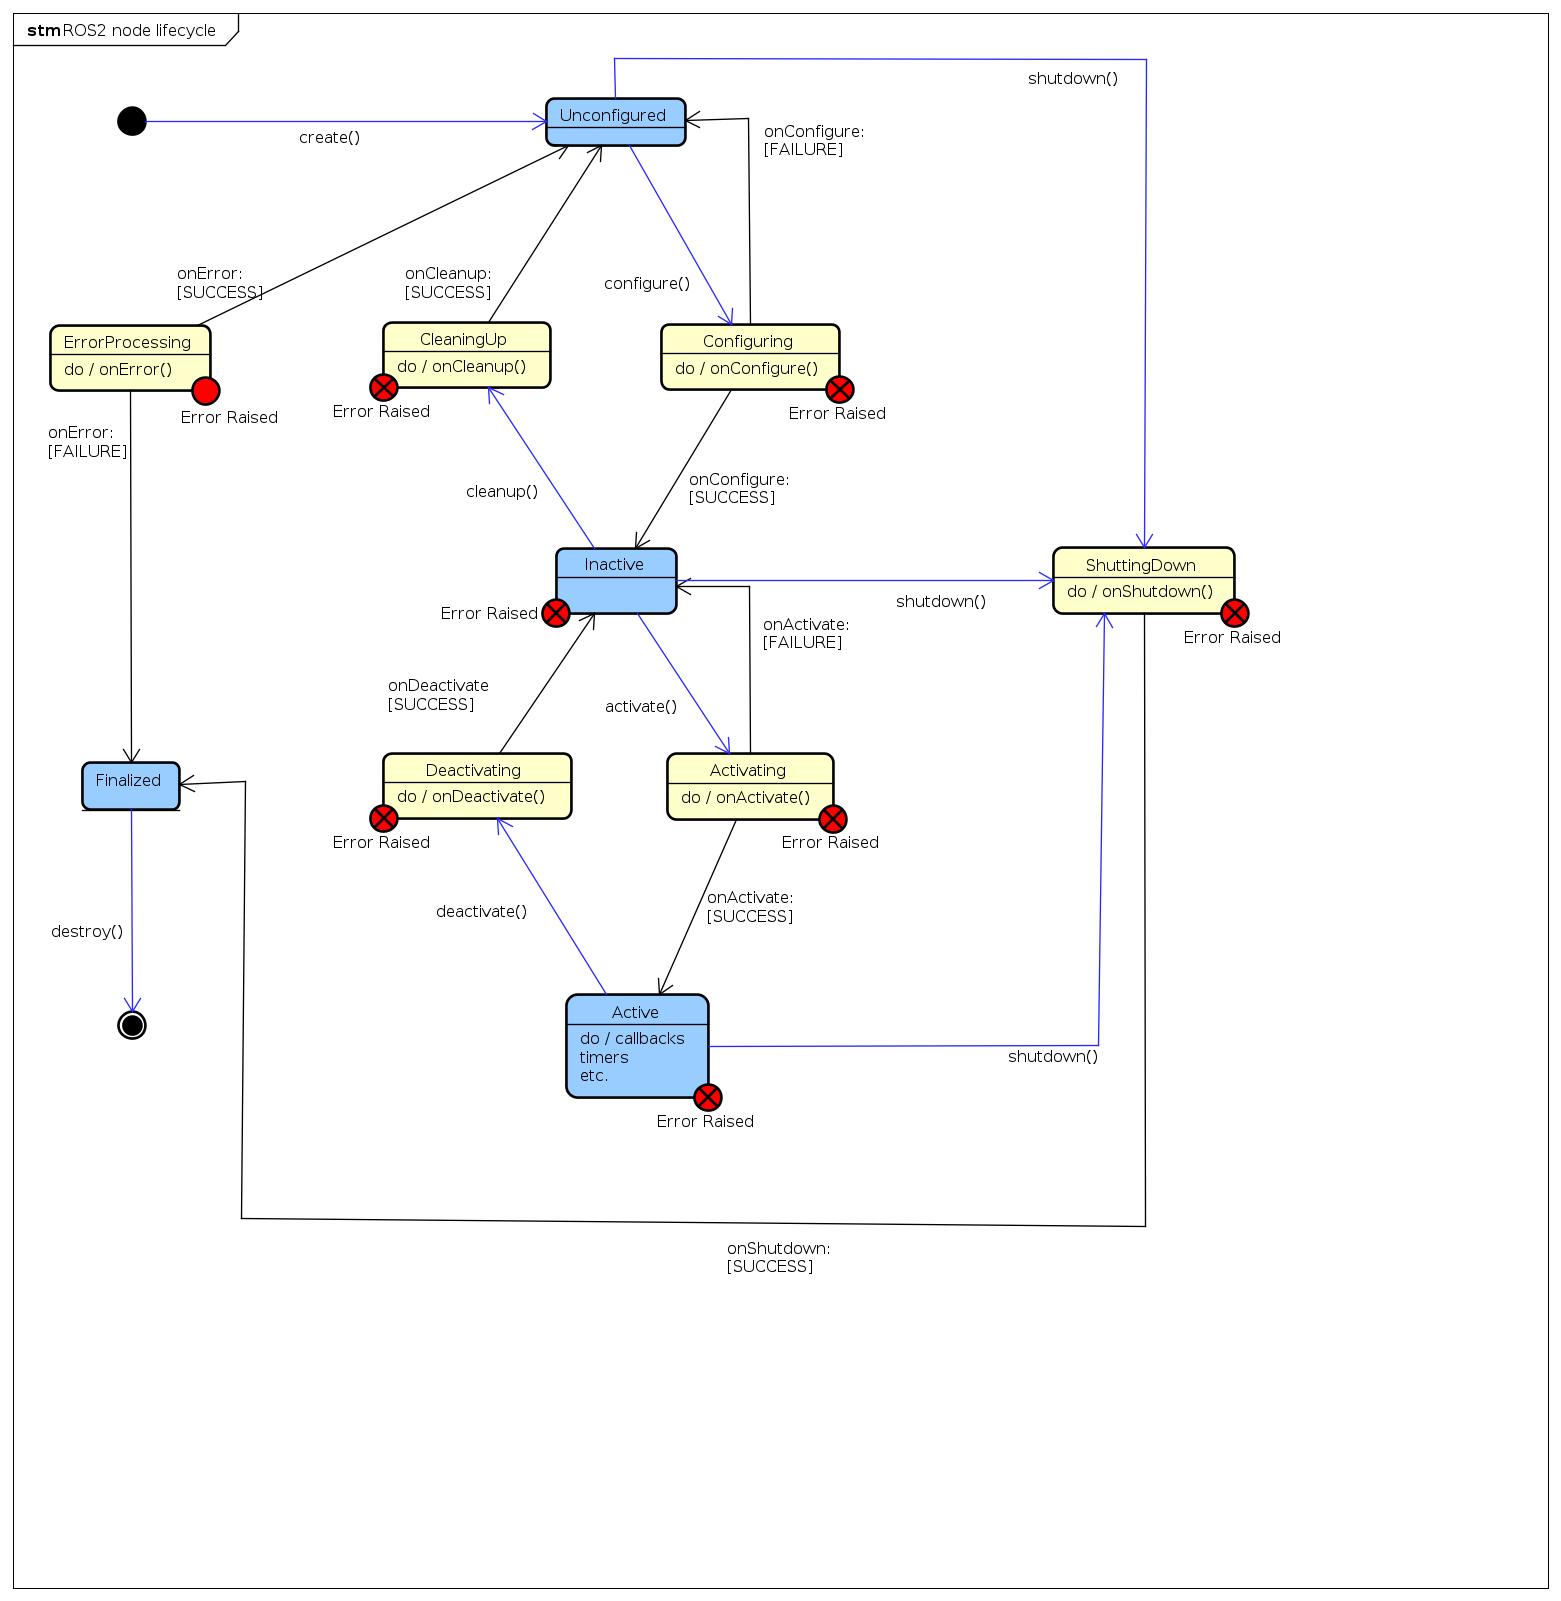
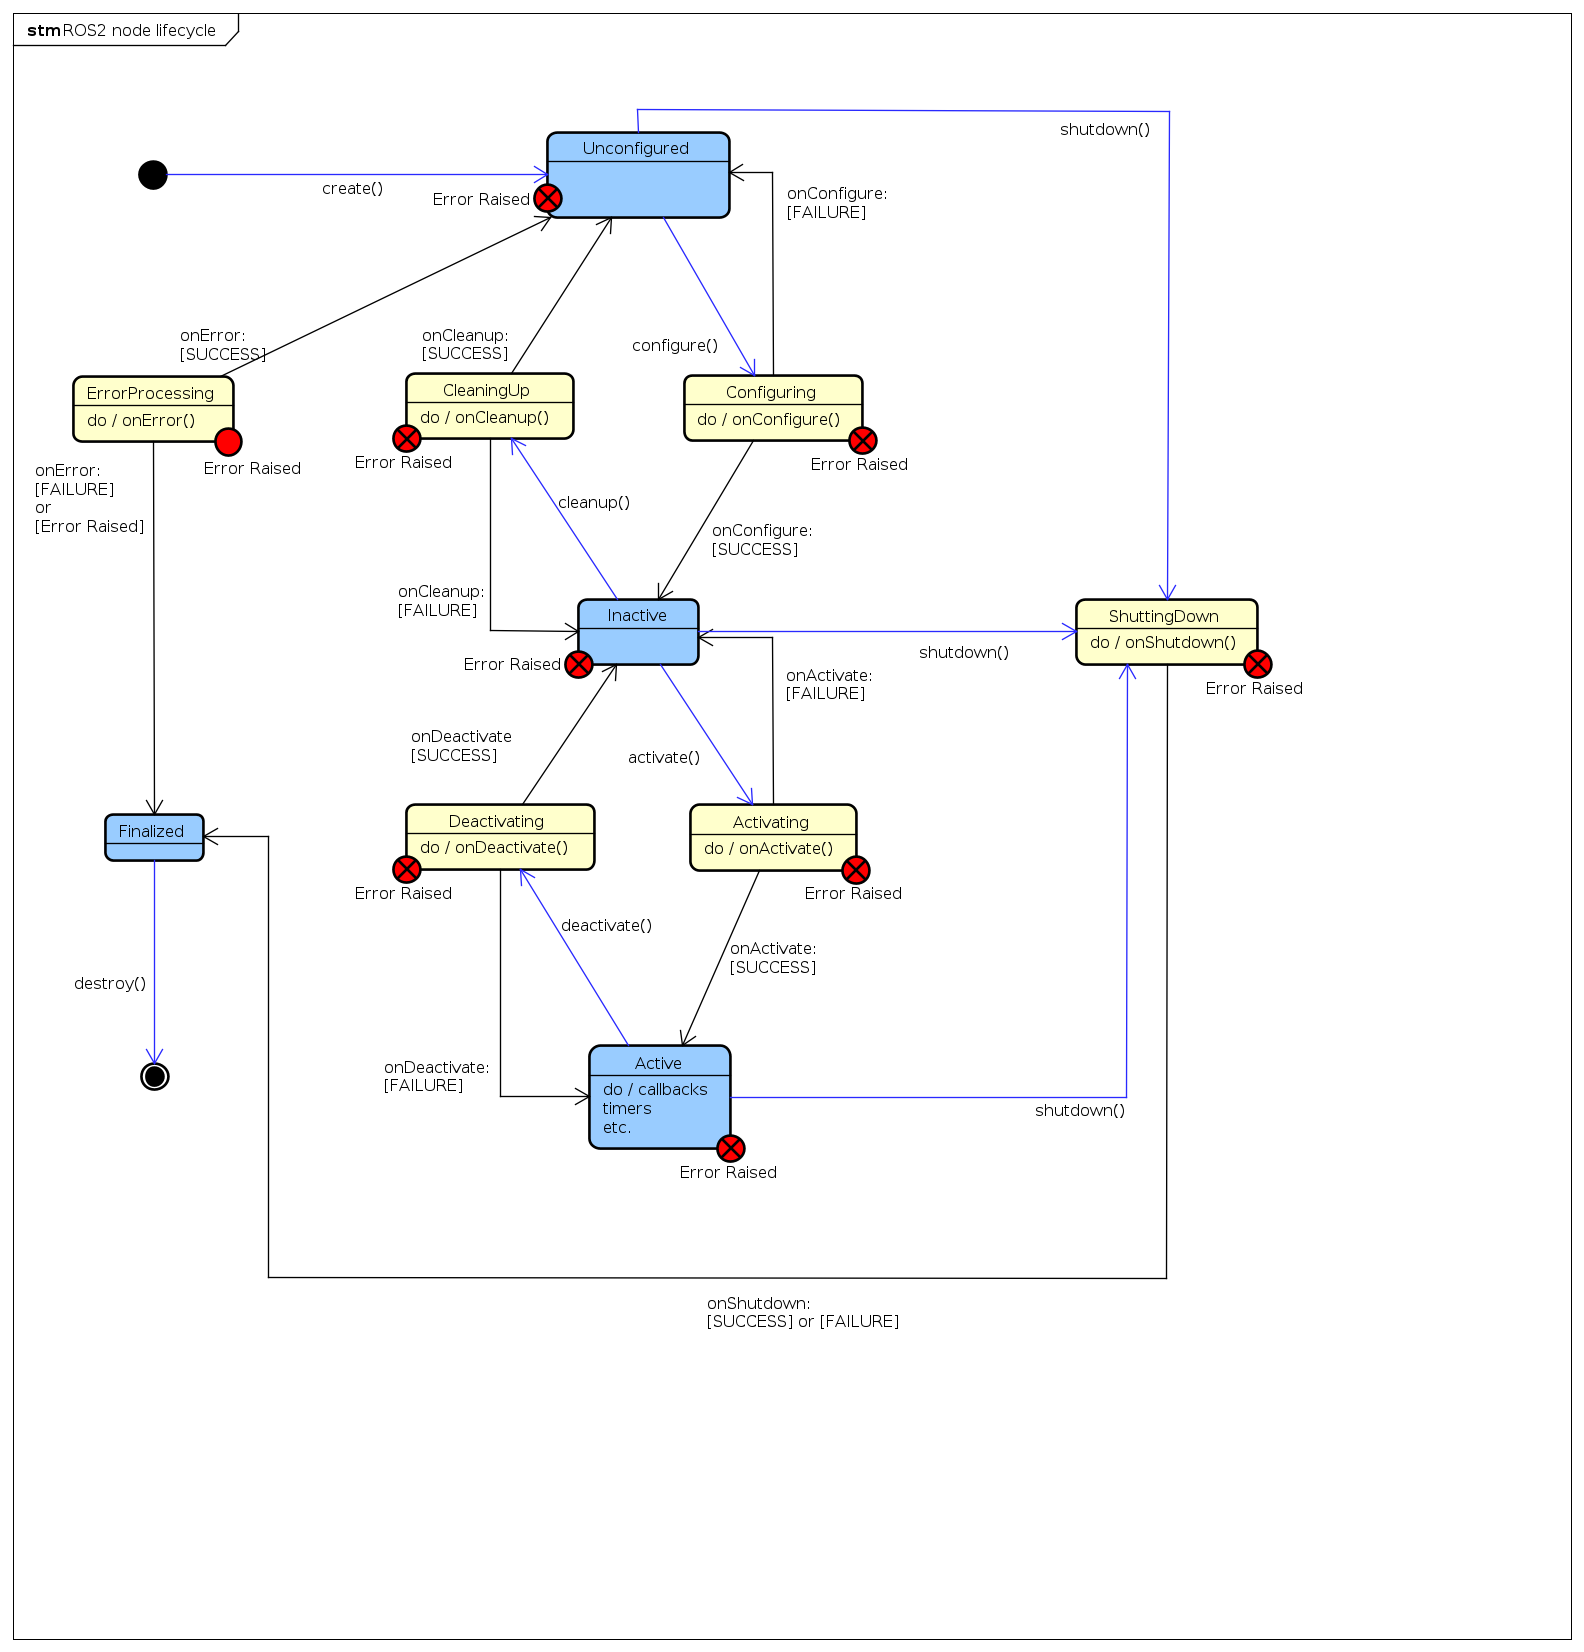
* update lifecycle asta and png to show unconfigured->errorProcessing transition and failure transitions currently in the implementation * update article to explicitly mention the added transitions Signed-off-by: thebyohazard <patrick@jlpengineering.com>

diff --git a/articles/node_lifecycle.md b/articles/node_lifecycle.md
@@ -71,6 +71,8 @@ This is the life cycle state the node is in immediately after being instantiated
 This is also the state in which a node may be retuned to after an error has happened.
 In this state there is expected to be no stored state.
 
+If an error that cannot be handled by the node/system occurs in this state, the node will transition to `ErrorProcessing`.
+
 #### Valid transition out
 
 - The node may transition to the `Inactive` state via the `configure` transition.
@@ -146,6 +148,7 @@ If the cleanup cannot be successfully achieved it will transition to `ErrorProce
 #### Valid transitions out if CleaningUp
 
 - If the `onCleanup` callback succeeds the node will transition to `Unconfigured`.
+- If the `onCleanup` callback results in a failure code, the node will transition back to `Inactive`.
 - If the `onCleanup` callback raises or results in any other return code the node will transition to `ErrorProcessing`.
 
 ### Transition State: Activating
@@ -158,6 +161,7 @@ Ideally, no preparation that requires significant time (such as lengthy hardware
 #### Valid transitions out if Activating
 
 - If the `onActivate` callback succeeds the node will transition to `Active`.
+- If the `onActivate` callback results in a failure code, the node will transition back to `Inactive`.
 - If the `onActivate` callback raises or results in any other return code the node will transition to `ErrorProcessing`.
 
 ### Transition State: Deactivating
@@ -168,6 +172,7 @@ This method is expected to do any cleanup to start executing, and should reverse
 #### Valid transitions out of Deactivating
 
 - If the `onDeactivate` callback succeeds the node will transition to `Inactive`.
+- If the `onDeactivate` callback results in a failure code, the node will transition back to `Active`.
 - If the `onDeactivate` callback raises or results in any other return code the node will transition to `ErrorProcessing`.
 
 ### Transition State: ShuttingDown
@@ -178,7 +183,7 @@ It may be entered from any Primary State except `Finalized`, the originating sta
 
 #### Valid transitions out of ShuttingDown
 
-- If the `onShutdown` callback succeeds the node will transition to `Finalized`.
+- If the `onShutdown` callback succeeds or results in a failure code, the node will transition to `Finalized`.
 - If the `onShutdown` callback raises or results in any other return code the node will transition to `ErrorProcessing`.
 
 ### Transition State: ErrorProcessing
